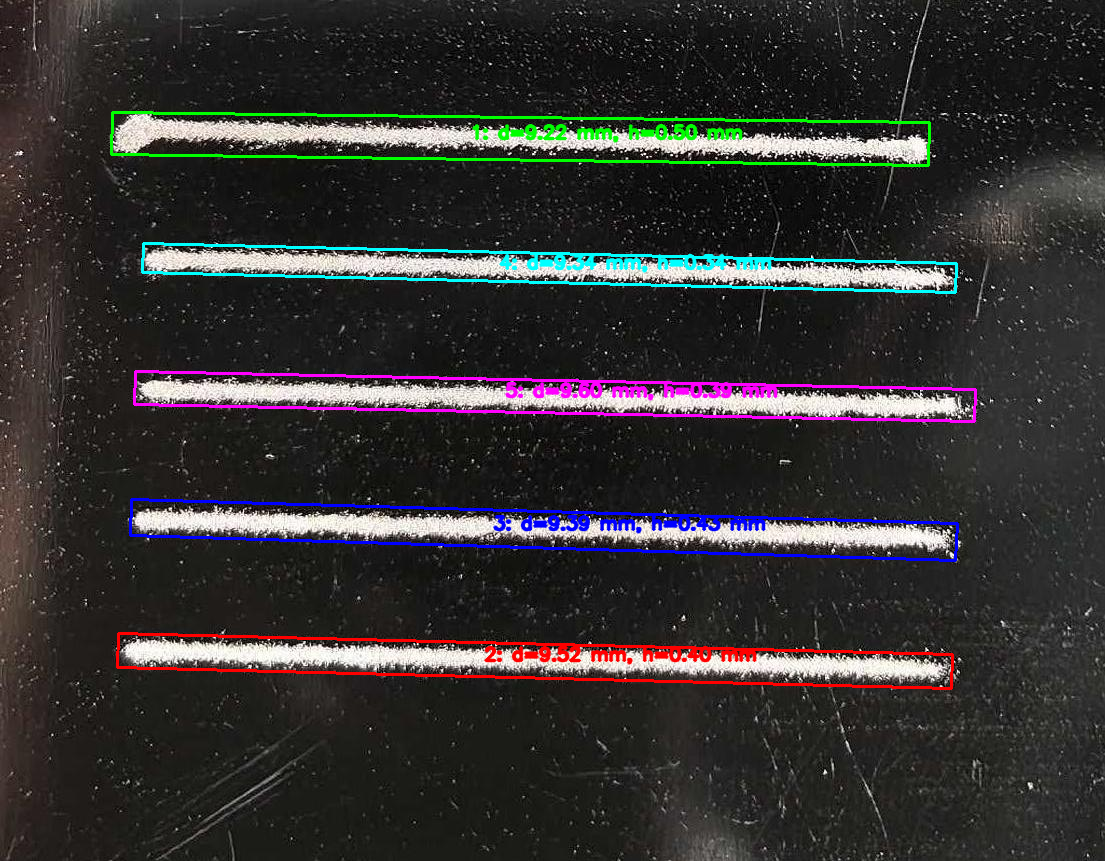
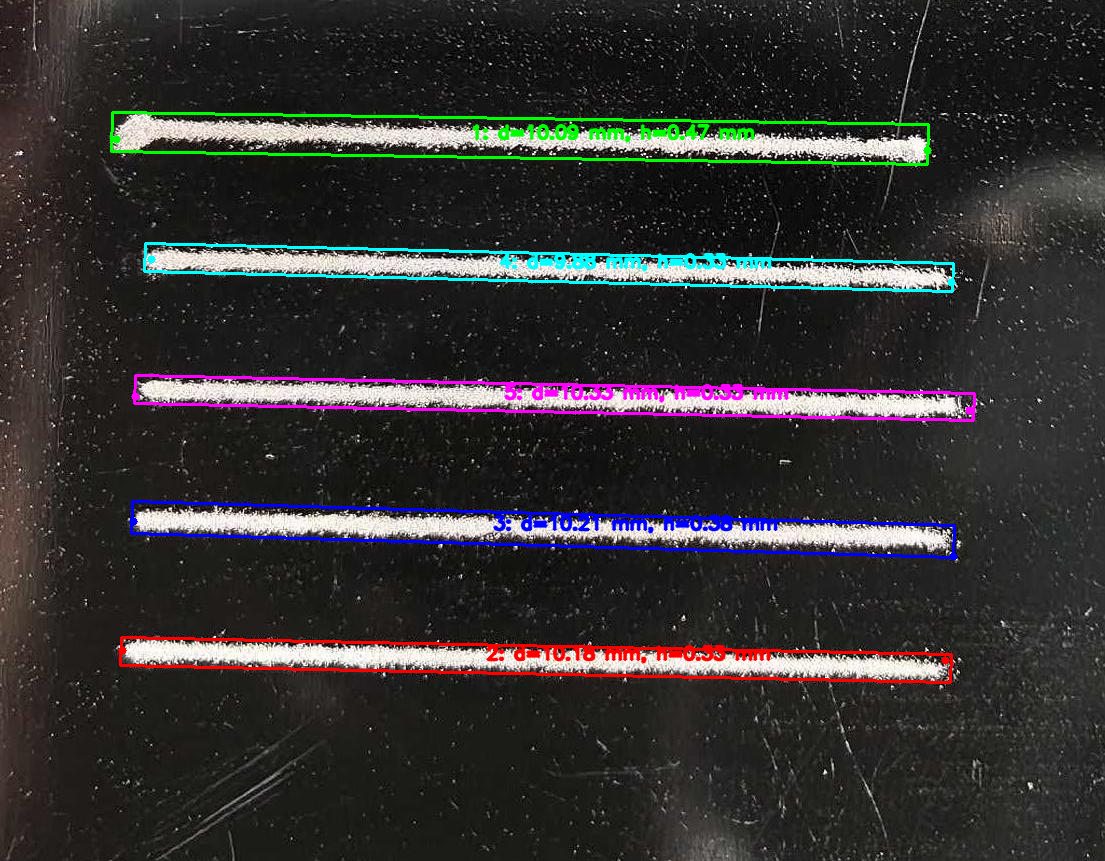
add skeleton detection code

diff --git a/skeleton_detector.py b/skeleton_detector.py
@@ -1,0 +1,167 @@
+import numpy as np
+from collections import deque
+from skimage.morphology import skeletonize
+
+
+def _neighbors(mask: np.ndarray, y: int, x: int):
+    """Return 8-connected neighbor coordinates that are foreground."""
+    h, w = mask.shape
+    coords = []
+    for dy in (-1, 0, 1):
+        for dx in (-1, 0, 1):
+            if dx == 0 and dy == 0:
+                continue
+            ny, nx = y + dy, x + dx
+            if 0 <= ny < h and 0 <= nx < w and mask[ny, nx]:
+                coords.append((ny, nx))
+    return coords
+
+
+def _prune_short_branches(skel: np.ndarray, min_branch_len: int = 8):
+    """
+    Iteratively remove short spurs to suppress noisy degree-1 branches.
+    """
+    pruned = skel.copy().astype(np.uint8)
+    h, w = pruned.shape
+
+    while True:
+        endpoints = [
+            (y, x)
+            for y in range(h)
+            for x in range(w)
+            if pruned[y, x] and len(_neighbors(pruned, y, x)) == 1
+        ]
+        if not endpoints:
+            break
+
+        removed_any = False
+        for ep in endpoints:
+            path = [ep]
+            prev = None
+            cur = ep
+
+            # Walk forward until hitting a junction/end
+            while True:
+                neigh = _neighbors(pruned, cur[0], cur[1])
+                if prev is not None:
+                    neigh = [n for n in neigh if n != prev]
+                if len(neigh) != 1:
+                    break
+
+                prev = cur
+                cur = neigh[0]
+                path.append(cur)
+
+                # Stop if we reach a junction or another endpoint
+                if len(_neighbors(pruned, cur[0], cur[1])) != 2:
+                    break
+
+            if len(path) < min_branch_len:
+                for py, px in path:
+                    pruned[py, px] = 0
+                removed_any = True
+
+        if not removed_any:
+            break
+
+    return pruned
+
+
+def _build_graph(skel: np.ndarray):
+    """
+    Build adjacency list for skeleton pixels.
+    """
+    coords = np.argwhere(skel > 0)
+    if len(coords) == 0:
+        return coords, {}, []
+
+    idx_map = {tuple(p): i for i, p in enumerate(coords)}
+    neighbors = [[] for _ in range(len(coords))]
+
+    for i, (y, x) in enumerate(coords):
+        for dy in (-1, 0, 1):
+            for dx in (-1, 0, 1):
+                if dx == 0 and dy == 0:
+                    continue
+                ny, nx = y + dy, x + dx
+                j = idx_map.get((ny, nx))
+                if j is not None:
+                    neighbors[i].append(j)
+
+    return coords, idx_map, neighbors
+
+
+def _bfs_farthest(start_idx: int, neighbors):
+    dist = [-1] * len(neighbors)
+    parent = [-1] * len(neighbors)
+    dist[start_idx] = 0
+    q = deque([start_idx])
+
+    while q:
+        cur = q.popleft()
+        for nxt in neighbors[cur]:
+            if dist[nxt] == -1:
+                dist[nxt] = dist[cur] + 1
+                parent[nxt] = cur
+                q.append(nxt)
+
+    far_idx = int(np.argmax(dist))
+    return far_idx, dist, parent
+
+
+def skeleton_longest_endpoints(mask: np.ndarray):
+    """
+    Locate the two farthest endpoints along the skeleton of a binary mask.
+
+    Args:
+        mask: uint8 binary image (0/255).
+
+    Returns:
+        dict with pt1, pt2 (x, y), length_px (geodesic on skeleton),
+        and skeleton (uint8 image). Returns None if no valid skeleton.
+    """
+    if mask is None or mask.size == 0:
+        return None
+
+    skel = skeletonize(mask > 0)
+    skel = _prune_short_branches(skel, min_branch_len=8)
+    skel_u8 = (skel.astype(np.uint8)) * 255
+
+    coords, idx_map, neighbors = _build_graph(skel)
+    if len(coords) == 0 or len(neighbors) == 0:
+        return None
+
+    endpoints = [
+        (y, x) for (y, x) in coords if len(_neighbors(skel, y, x)) == 1
+    ]
+
+    # Pick a robust start: endpoint if available, otherwise any pixel
+    start_idx = idx_map[tuple(endpoints[0])] if endpoints else 0
+
+    far_a, _, _ = _bfs_farthest(start_idx, neighbors)
+    far_b, _, parent_b = _bfs_farthest(far_a, neighbors)
+
+    # Reconstruct longest path from far_b back to far_a
+    path_idx = []
+    cur = far_b
+    while cur != -1:
+        path_idx.append(cur)
+        cur = parent_b[cur]
+    path_idx = path_idx[::-1]
+
+    if len(path_idx) < 2:
+        return None
+
+    path_coords = coords[path_idx]
+    diffs = np.diff(path_coords.astype(np.float32), axis=0)
+    length_px = float(np.sum(np.linalg.norm(diffs, axis=1)))
+
+    pt1_y, pt1_x = path_coords[0]
+    pt2_y, pt2_x = path_coords[-1]
+
+    return {
+        "pt1": (int(pt1_x), int(pt1_y)),
+        "pt2": (int(pt2_x), int(pt2_y)),
+        "length_px": length_px,
+        "skeleton": skel_u8
+    }

diff --git a/main.py b/main.py
@@ -2,6 +2,7 @@ import os
 import sys
 import cv2
 import numpy as np
+from skeleton_detector import skeleton_longest_endpoints
 from PyQt6.QtWidgets import (QApplication, QMainWindow, QWidget, QLabel,
                              QPushButton, QVBoxLayout, QFileDialog, QTextEdit,
                              QScrollArea, QSizePolicy, QDialog, QLineEdit,
@@ -257,10 +258,12 @@ class PowderSegmentApp(QMainWindow):
             morph_size = self.params['morph_size']
             kernel = np.ones((morph_size, morph_size), np.uint8)
             closed = cv2.morphologyEx(binary, cv2.MORPH_CLOSE, kernel)
+            open_kernel = np.ones((3, 3), np.uint8)
+            cleaned = cv2.morphologyEx(closed, cv2.MORPH_OPEN, open_kernel)
 
             # 找轮廓
             contours, _ = cv2.findContours(
-                closed, cv2.RETR_EXTERNAL, cv2.CHAIN_APPROX_SIMPLE
+                cleaned, cv2.RETR_EXTERNAL, cv2.CHAIN_APPROX_SIMPLE
             )
 
             result_image = image.copy()
@@ -282,6 +285,8 @@ class PowderSegmentApp(QMainWindow):
                 (255, 0, 255),
                 (0, 255, 255)
             ]
+
+            h_img, w_img = cleaned.shape
 
             for cnt in contours:
                 perimeter = cv2.arcLength(cnt, True)
@@ -306,8 +311,30 @@ class PowderSegmentApp(QMainWindow):
                 if aspect_ratio < MIN_ASPECT_RATIO:
                     continue
 
-                # 有效长度：长边 - 短边，大致扣掉两端圆头/椭圆弧
-                effective_length_px = max(long_side - short_side, 0)
+                x, y, bw, bh = cv2.boundingRect(cnt)
+                pad = max(4, morph_size)
+                x0 = max(x - pad, 0)
+                y0 = max(y - pad, 0)
+                x1 = min(x + bw + pad, w_img)
+                y1 = min(y + bh + pad, h_img)
+
+                if x1 <= x0 or y1 <= y0:
+                    continue
+
+                roi_mask = np.zeros((y1 - y0, x1 - x0), dtype=np.uint8)
+                shifted_cnt = cnt - [x0, y0]
+                cv2.drawContours(roi_mask, [shifted_cnt], -1, 255, -1)
+
+                skel_info = skeleton_longest_endpoints(roi_mask)
+                if skel_info and skel_info.get("length_px", 0) > 0:
+                    effective_length_px = skel_info["length_px"]
+                    pt1_global = (skel_info["pt1"][0] + x0, skel_info["pt1"][1] + y0)
+                    pt2_global = (skel_info["pt2"][0] + x0, skel_info["pt2"][1] + y0)
+                else:
+                    # 回退到几何近似长度
+                    effective_length_px = max(long_side - short_side, 0)
+                    pt1_global = None
+                    pt2_global = None
 
                 length_mm = effective_length_px / pixels_per_mm
                 height_mm = short_side / pixels_per_mm
@@ -325,7 +352,8 @@ class PowderSegmentApp(QMainWindow):
                     "length_mm": length_mm,
                     "height_mm": height_mm,
                     "area": area,
-                    "aspect_ratio": aspect_ratio
+                    "aspect_ratio": aspect_ratio,
+                    "endpoints": (pt1_global, pt2_global)
                 })
 
             if not detected_segments:
@@ -354,9 +382,21 @@ class PowderSegmentApp(QMainWindow):
                 # 画旋转矩形
                 cv2.drawContours(result_image, [box], 0, color, 2)
 
+                if seg.get("endpoints") and all(seg["endpoints"]):
+                    cv2.circle(result_image, seg["endpoints"][0], 4, color, -1)
+                    cv2.circle(result_image, seg["endpoints"][1], 4, color, -1)
+
                 # 文本标注：编号 + d/h
                 text = f"{idx}: d={length_mm:.2f} mm, h={height_mm:.2f} mm"
-                text_org = (int(cx) - 50, int(cy))  # 大致放在中心位置附近
+                # 将文字尽量放在粉末外侧：优先框上方，不够则框下方
+                min_x = int(np.min(box[:, 0]))
+                min_y = int(np.min(box[:, 1]))
+                max_y = int(np.max(box[:, 1]))
+                text_x = max(min_x, 5)
+                text_y = min_y - 8
+                if text_y < 15:
+                    text_y = max_y + 18
+                text_org = (text_x, text_y)
                 cv2.putText(
                     result_image,
                     text,
